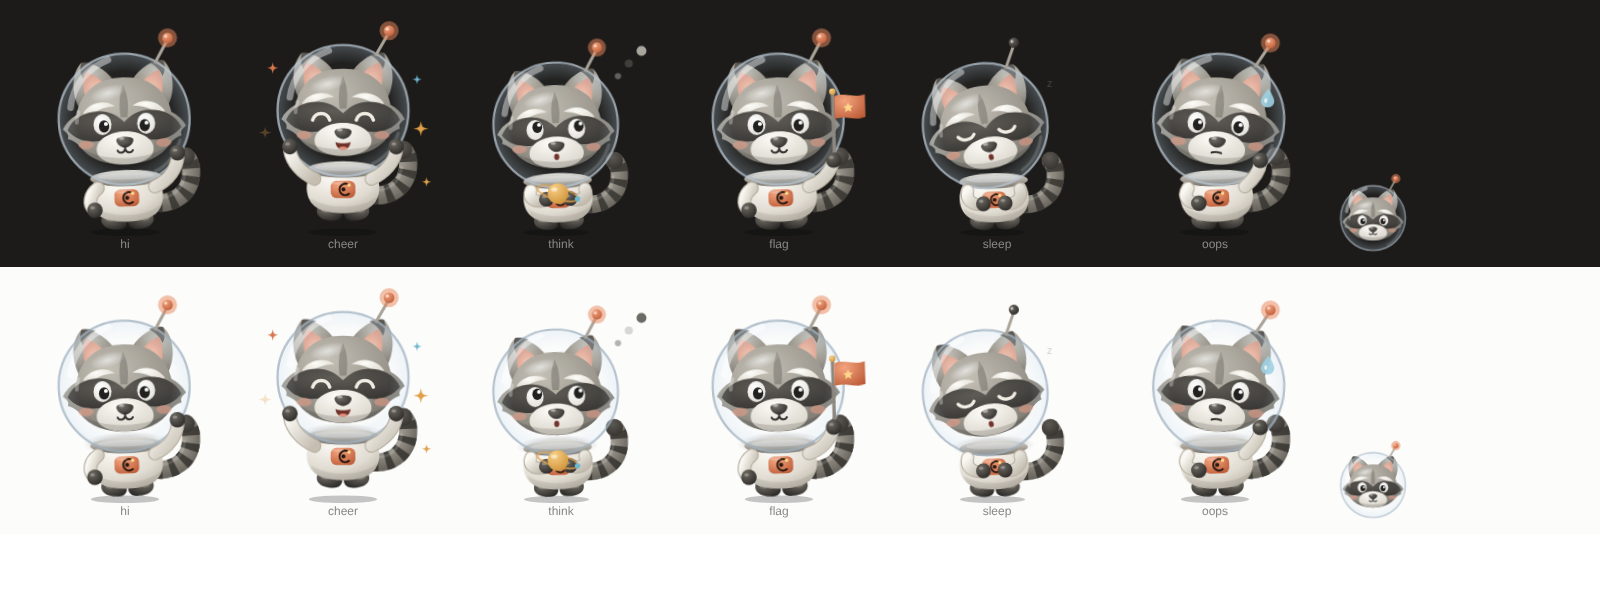
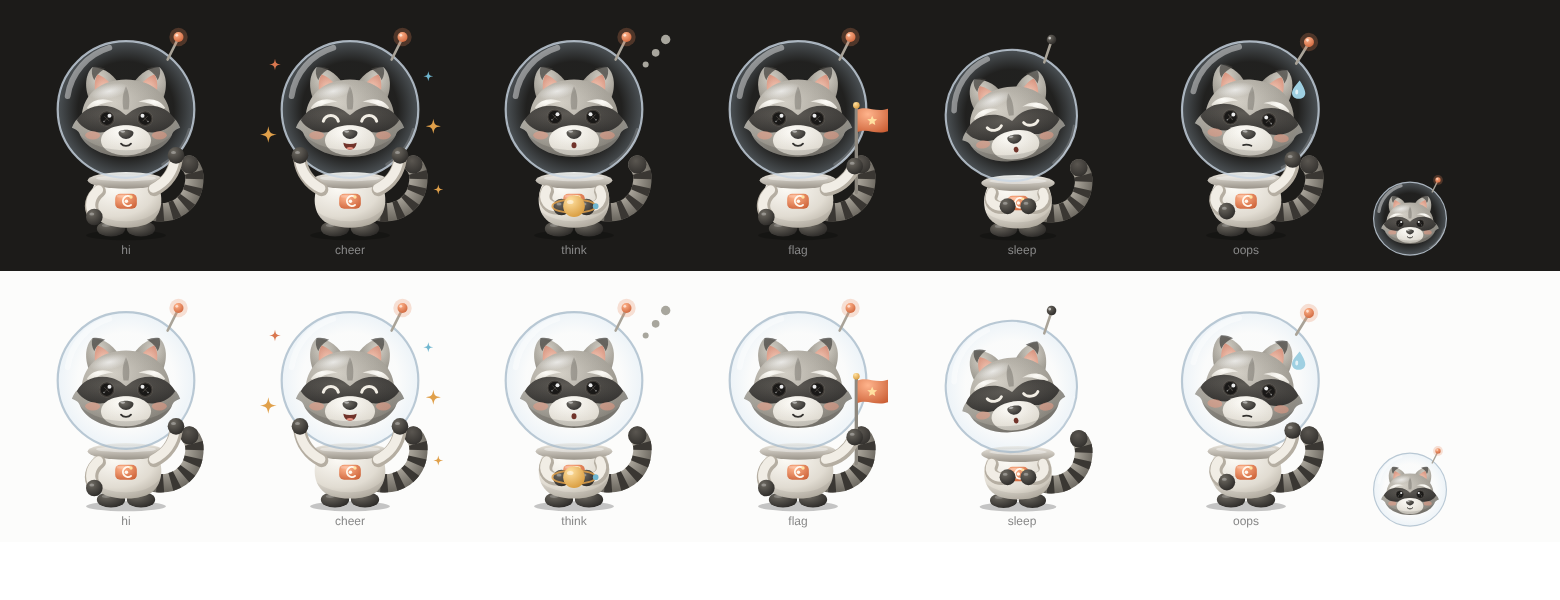
Енот: белый винил с глазами-пуговками во всех позах; UX-решения экранов v2 в CLAUDE.md
Claude-Session: https://claude.ai/code/session_01UrUbwLMz1RwJzU76MZ93kj

diff --git a/design/mascot/coon.py b/design/mascot/coon.py
@@ -278,3 +278,179 @@ if __name__ == '__main__':
     for f in sorted(src_dir.glob('*.dc.html')):
         build(f, out_dir / f.name)
         print('built', f.name)
+
+
+# ═════════════════ v3: белый винил с глазами-пуговками (выбран 19.10) ═════════════════
+# Координаты 240×260. Переопределяет CSS и pose_svg выше.
+CSS = """
+.sp-app{--rim:#C9D6E2}
+.sp-app[data-theme="light"]{--rim:#A9BCCB}
+.coon{overflow:visible;display:block}
+.coon .c-float{animation:c-float 5.5s ease-in-out infinite;transform-box:view-box;transform-origin:120px 150px}
+.coon .c-wave{animation:c-wave 1.8s ease-in-out infinite;transform-box:view-box;transform-origin:154px 196px}
+.coon .c-tail{animation:c-tail 3.2s ease-in-out infinite;transform-box:view-box;transform-origin:150px 222px}
+.coon .c-ear{animation:c-ear 6s ease-in-out infinite;transform-box:view-box;transform-origin:146px 84px}
+.coon .c-eye{animation:c-blink 4.8s infinite;transform-box:fill-box;transform-origin:center}
+.coon .c-beacon{animation:c-beacon 1.6s ease-in-out infinite}
+.coon .c-star{animation:c-twinkle 2.4s ease-in-out infinite;transform-box:fill-box;transform-origin:center}
+.coon .c-hop{animation:c-hop 1.1s cubic-bezier(.3,.6,.4,1) infinite;transform-box:view-box;transform-origin:120px 250px}
+.coon .c-z{animation:c-z 3s ease-in-out infinite;opacity:0}
+.coon .c-dot{animation:c-dot 1.4s ease-in-out infinite}
+.coon .c-orb{animation:c-orb 6s linear infinite;transform-box:view-box;transform-origin:120px 216px}
+.coon .c-flag{animation:c-flag 1.4s ease-in-out infinite;transform-box:view-box;transform-origin:190px 100px}
+@keyframes c-float{0%,100%{transform:translateY(0) rotate(-1.5deg)}50%{transform:translateY(-6px) rotate(1.5deg)}}
+@keyframes c-wave{0%,100%{transform:rotate(-8deg)}50%{transform:rotate(12deg)}}
+@keyframes c-tail{0%,100%{transform:rotate(0)}50%{transform:rotate(-8deg)}}
+@keyframes c-ear{0%,86%,100%{transform:rotate(0)}90%{transform:rotate(8deg)}94%{transform:rotate(-3deg)}}
+@keyframes c-blink{0%,93%,100%{transform:scaleY(1)}96%{transform:scaleY(.1)}}
+@keyframes c-beacon{0%,100%{opacity:.35}50%{opacity:1}}
+@keyframes c-twinkle{0%,100%{opacity:.2;transform:scale(.7)}50%{opacity:1;transform:scale(1)}}
+@keyframes c-hop{0%,100%{transform:translateY(0) scaleY(1)}12%{transform:translateY(0) scaleY(.95)}45%{transform:translateY(-12px) scaleY(1.02)}}
+@keyframes c-z{0%{opacity:0;transform:translate(0,0)}25%{opacity:1}100%{opacity:0;transform:translate(10px,-22px)}}
+@keyframes c-dot{0%,100%{opacity:.25}50%{opacity:1}}
+@keyframes c-orb{to{transform:rotate(360deg)}}
+@keyframes c-flag{0%,100%{transform:skewY(0)}50%{transform:skewY(-6deg)}}
+@media (prefers-reduced-motion:reduce){.coon *{animation:none!important}.coon .c-z,.coon .c-dot{opacity:1}}
+"""
+
+def _rg(id, stops, cx=.38, cy=.3, r=.85):
+    s = ''.join(f'<stop offset="{o}" stop-color="{c}"></stop>' for o, c in stops)
+    return f'<radialGradient id="{id}" cx="{cx}" cy="{cy}" r="{r}">{s}</radialGradient>'
+
+def _mir(inner):
+    return f'<g transform="translate(240 0) scale(-1 1)">{inner}</g>'
+
+DEFS3 = ('<defs>'
+    + _rg('cn-fur', [(0, '#D3CEC4'), (.55, '#A39E94'), (1, '#6E6A62')]) + _rg('cn-mask', [(0, '#5A5650'), (1, '#2A2826')], .42, .3, .9)
+    + _rg('cn-cream', [(0, '#FFFDF8'), (1, '#D8D2C6')], .42, .22, .9) + _rg('cn-dark', [(0, '#6E6A62'), (1, '#2A2826')], .34, .28, .8)
+    + _rg('cn-clay', [(0, '#FFB48C'), (1, '#C85A30')], .34, .25, .95) + _rg('cn-gold', [(0, '#FFE0A0'), (1, '#D18F2C')], .34, .25, .95)
+    + _rg('cn-ear', [(0, '#F7CDBA'), (1, '#D8927C')], .5, .65, .7)
+    + _rg('cn-suit', [(0, '#FCFAF5'), (.6, '#E1DCD2'), (1, '#AFA89B')], .34, .2, .95)
+    + '<radialGradient id="cn-glass" cx=".5" cy=".5" r=".5"><stop offset=".7" stop-color="#C6DDF0" stop-opacity=".03"></stop><stop offset="1" stop-color="#C6DDF0" stop-opacity=".28"></stop></radialGradient>'
+    + '<radialGradient id="cn-spec"><stop offset="0" stop-color="#fff" stop-opacity=".65"></stop><stop offset="1" stop-color="#fff" stop-opacity="0"></stop></radialGradient>'
+    + '<linearGradient id="cn-metal" x1="0" y1="0" x2="0" y2="1"><stop offset="0" stop-color="#F2EEE6"></stop><stop offset="1" stop-color="#9A948A"></stop></linearGradient>'
+    + '</defs>')
+
+def _button(dy=0):
+    y = 111 + dy
+    return (f'<g class="c-eye"><circle cx="97" cy="{y}" r="9.5" fill="#6E6A62" opacity=".55"></circle><circle cx="97" cy="{y}" r="8.2" fill="#141210"></circle>'
+            f'<circle cx="97" cy="{y}" r="8.2" fill="none" stroke="#3A3530" stroke-width="1.4"></circle>'
+            f'<path d="M94 {y-3}l6 6M100 {y-3}l-6 6" stroke="#4A4540" stroke-width="1.2" opacity=".85"></path>'
+            f'<circle cx="100.2" cy="{y-3.4}" r="2.4" fill="#fff" opacity=".92"></circle><circle cx="93.6" cy="{y+3.4}" r="1" fill="#fff" opacity=".5"></circle></g>')
+
+def _eyes3(kind):
+    if kind == 'closed':
+        e = '<path d="M88 111C92 117 102 117 106 111" fill="none" stroke="#F3EEE4" stroke-width="3.6" stroke-linecap="round"></path>'
+    elif kind == 'happy':
+        e = '<path d="M88 114C91 105 103 105 106 114" fill="none" stroke="#F3EEE4" stroke-width="3.6" stroke-linecap="round"></path>'
+    else:
+        e = _button(-2 if kind == 'up' else 0)
+    return e + _mir(e)
+
+def _mouth3(kind):
+    if kind == 'open':
+        return ('<path d="M112 140C113 151 127 151 128 140C123 142 117 142 112 140Z" fill="#6E2E24"></path>'
+                '<path d="M115.5 146.5C118 144.6 122 144.6 124.5 146.5C122.5 148.6 117.5 148.6 115.5 146.5Z" fill="#E88E7C"></path>')
+    if kind == 'o':
+        return '<ellipse cx="120" cy="143" rx="3" ry="3.6" fill="#6E2E24"></ellipse>'
+    if kind == 'flat':
+        return '<path d="M115 143C118 142 122 142 125 143" fill="none" stroke="#2E2C29" stroke-width="2.2" stroke-linecap="round"></path>'
+    return '<path d="M114 141C117 144.5 123 144.5 126 141" fill="none" stroke="#2E2C29" stroke-width="2.2" stroke-linecap="round"></path>'
+
+def _head3(eye='open', mth='smile'):
+    ear = ('<path d="M80 96C69 78 70 58 80 49C95 50 108 60 113 73Z" fill="url(#cn-fur)"></path>'
+           '<path d="M80 49C85 48 90 49 95 51C89 54 84 59 82 65C79 60 78 54 80 49Z" fill="#3A3733" opacity=".7"></path>'
+           '<path d="M85 87C81 75 82 63 86 58C94 61 101 67 105 74Z" fill="url(#cn-ear)"></path>')
+    brow = '<path d="M73 98C80 87 94 85 105 91C95 91 85 94 77 102Z" fill="url(#cn-cream)"></path>'
+    blush = '<ellipse cx="80" cy="131" rx="9" ry="5" fill="#F29A80" opacity=".5"></ellipse>'
+    return f"""<g>{ear}</g><g class="c-ear">{_mir(ear)}</g>
+<path d="M120 64C150 64 171 82 173 107C179 111 183 116 185 122C179 124 176 127 175 131C167 147 146 157 120 157C94 157 73 147 65 131C64 127 61 124 55 122C57 116 61 111 67 107C69 82 90 64 120 64Z" fill="url(#cn-fur)"></path>
+<path d="M120 72C124 80 125 90 123 100H117C115 90 116 80 120 72Z" fill="#3A3733" opacity=".3"></path>
+{brow}{_mir(brow)}
+<path d="M61 113C69 97 87 93 103 97C111 99 116 104 120 107C124 104 129 99 137 97C153 93 171 97 179 113C171 125 157 129 145 127C135 125 127 119 120 119C113 119 105 125 95 127C83 129 69 125 61 113Z" fill="url(#cn-mask)"></path>
+{_eyes3(eye)}
+<path d="M120 119C138 119 150 127 150 137C150 148 137 155 120 155C103 155 90 148 90 137C90 127 102 119 120 119Z" fill="url(#cn-cream)"></path>
+<path d="M65 131C73 147 94 157 120 157C146 157 167 147 175 131C162 143 142 149 120 149C98 149 78 143 65 131Z" fill="#000" opacity=".12"></path>
+<ellipse cx="100" cy="78" rx="24" ry="9" transform="rotate(-12 100 78)" fill="url(#cn-spec)"></ellipse>
+{blush}{_mir(blush)}
+<path d="M111 128C111 123 129 123 129 128C129 132 124 135.5 120 135.5C116 135.5 111 132 111 128Z" fill="url(#cn-dark)"></path>
+<ellipse cx="116" cy="126.5" rx="3" ry="1.3" fill="#fff" opacity=".5"></ellipse>
+{_mouth3(mth)}"""
+
+def _dome3(beacon=True):
+    tip = ('<circle class="c-beacon" cx="183" cy="13" r="11" fill="#E8875C" opacity=".25"></circle><circle cx="183" cy="13" r="6" fill="url(#cn-clay)"></circle>'
+           if beacon else '<circle cx="183" cy="13" r="6" fill="url(#cn-dark)"></circle>')
+    return ('<circle cx="120" cy="100" r="82" fill="url(#cn-glass)"></circle>'
+            '<circle cx="120" cy="100" r="82" fill="none" stroke="var(--rim)" stroke-width="2.6" opacity=".8"></circle>'
+            '<path d="M50 84C54 56 74 34 100 26" fill="none" stroke="#fff" stroke-width="7" stroke-linecap="round" opacity=".42"></path>'
+            '<path d="M196 124C190 144 178 158 164 166" fill="none" stroke="#fff" stroke-width="3.5" stroke-linecap="round" opacity=".16"></path>'
+            '<line x1="170" y1="40" x2="182" y2="16" stroke="#A9A398" stroke-width="3.2" stroke-linecap="round"></line>'
+            + tip + '<circle cx="181" cy="11" r="1.7" fill="#fff" opacity=".6"></circle>')
+
+_TAIL3 = 'M150 222C178 228 200 212 202 186C203 176 200 170 196 166'
+def _body3():
+    return f"""<g class="c-tail"><path d="{_TAIL3}" fill="none" stroke="url(#cn-fur)" stroke-width="22" stroke-linecap="round"></path>
+<path d="{_TAIL3}" fill="none" stroke="#3A3733" stroke-width="22" stroke-dasharray="8 9" stroke-dashoffset="-7"></path>
+<circle cx="196" cy="166" r="11" fill="url(#cn-mask)"></circle></g>
+<ellipse cx="102" cy="243" rx="17" ry="9.5" fill="url(#cn-dark)"></ellipse><ellipse cx="138" cy="243" rx="17" ry="9.5" fill="url(#cn-dark)"></ellipse>
+<ellipse cx="96" cy="239" rx="5" ry="2" fill="#fff" opacity=".2"></ellipse><ellipse cx="132" cy="239" rx="5" ry="2" fill="#fff" opacity=".2"></ellipse>
+<path d="M82 190C74 206 76 230 96 238C110 243 130 243 144 238C164 230 166 206 158 190C146 181 94 181 82 190Z" fill="url(#cn-suit)"></path>
+<path d="M96 238C110 243 130 243 144 238C154 234 160 226 162 216C152 230 136 234 120 234C104 234 90 230 80 222C84 230 89 235 96 238Z" fill="#000" opacity=".06"></path>
+<rect x="107" y="201" width="26" height="18" rx="6" fill="url(#cn-clay)"></rect>
+<path d="M126 205A6 6 0 1 0 126 214.5" fill="none" stroke="#FFF8EE" stroke-width="2.3" stroke-linecap="round"></path><circle cx="120.5" cy="210" r="2.1" fill="#FFF8EE"></circle><circle cx="126" cy="205" r="2" fill="#FFE0A0"></circle>
+<rect x="109" y="202.5" width="12" height="3" rx="1.5" fill="#fff" opacity=".25"></rect>
+<ellipse cx="120" cy="185" rx="46" ry="10" fill="url(#cn-metal)"></ellipse><ellipse cx="120" cy="182.5" rx="36" ry="3.6" fill="#fff" opacity=".4"></ellipse>"""
+
+def _arm3(d, paw, cls=''):
+    c = f' class="{cls}"' if cls else ''
+    x, y = paw
+    return (f'<g{c}><path d="{d}" fill="none" stroke="#B5AEA2" stroke-width="16" stroke-linecap="round"></path>'
+            f'<path d="{d}" fill="none" stroke="#F1EDE5" stroke-width="11" stroke-linecap="round" transform="translate(-1 -1.5)"></path>'
+            f'<circle cx="{x}" cy="{y}" r="10" fill="url(#cn-dark)"></circle><ellipse cx="{x-3}" cy="{y-3.5}" rx="3" ry="1.8" fill="#fff" opacity=".3"></ellipse></g>')
+
+_SH3 = '<ellipse cx="120" cy="251" rx="48" ry="6" fill="#000" opacity=".22"></ellipse>'
+_REST_L = ('M88 198C78 206 76 218 82 226', (82, 229))
+
+def _sparkle3(x, y, s, delay, color='var(--gold)'):
+    return sparkle(x, y, s, delay, color)
+
+def pose_svg(pose):
+    if pose == 'face':
+        return f'{DEFS3}{_head3()}{_dome3()}', '30 0 180 186'
+    if pose == 'hi':
+        inner = f"{_body3()}{_head3()}{_dome3()}{_arm3(*_REST_L)}{_arm3('M154 196C170 188 178 174 180 160', (180, 155), 'c-wave')}"
+        return f'{DEFS3}{_SH3}<g class="c-float">{inner}</g>', '0 0 240 260'
+    if pose == 'cheer':
+        inner = (f"{_body3()}{_head3('happy', 'open')}{_dome3()}"
+                 f"{_arm3('M86 196C70 188 62 174 60 160', (60, 155))}{_arm3('M154 196C170 188 178 174 180 160', (180, 155))}")
+        stars = _sparkle3(22, 130, 10, 0) + _sparkle3(220, 120, 9, .6) + _sparkle3(30, 46, 7, 1.1, 'var(--clay)') + _sparkle3(214, 60, 6, .3, 'var(--signal-done)') + _sparkle3(226, 196, 6, .9)
+        return f'{DEFS3}{_SH3}{stars}<g class="c-hop">{inner}</g>', '0 0 240 260'
+    if pose == 'think':
+        orb = ('<g class="c-orb"><ellipse cx="120" cy="216" rx="26" ry="8" fill="none" stroke="var(--gold)" stroke-width="2.2" opacity=".85"></ellipse><circle cx="146" cy="216" r="3.4" fill="var(--signal-done)"></circle></g>'
+               '<circle cx="120" cy="216" r="13" fill="url(#cn-gold)"></circle><ellipse cx="115.5" cy="211" rx="4" ry="2.4" fill="#fff" opacity=".5"></ellipse>')
+        inner = (f"{_body3()}{_head3('up', 'o')}{_dome3()}"
+                 f"{_arm3('M88 198C82 210 90 220 104 218', (105, 217))}{_arm3('M152 198C158 210 150 220 136 218', (135, 217))}{orb}")
+        dots = ''.join(f'<circle class="c-dot" style="animation-delay:{d}s" cx="{x}" cy="{y}" r="{r}" fill="var(--ink-soft)"></circle>'
+                       for x, y, r, d in ((206, 46, 3.6, 0), (218, 32, 4.6, .25), (230, 16, 5.6, .5)))
+        return f'{DEFS3}{_SH3}<g class="c-float">{inner}</g>{dots}', '0 0 240 260'
+    if pose == 'flag':
+        flag = ('<line x1="190" y1="200" x2="190" y2="96" stroke="#8D887F" stroke-width="4" stroke-linecap="round"></line>'
+                '<circle cx="190" cy="95" r="4" fill="url(#cn-gold)"></circle>'
+                '<g class="c-flag"><path d="M191.5 100C203 95 214 104 228 99V126C214 131 203 122 191.5 127Z" fill="url(#cn-clay)"></path>'
+                '<path d="M209 107.5l1.8 3.8 4.1.4-3.1 2.8.9 4.1-3.7-2.1-3.7 2.1.9-4.1-3.1-2.8 4.1-.4z" fill="#FFE0A0"></path></g>')
+        inner = (f"{_body3()}{_head3()}{_dome3()}{_arm3(*_REST_L)}{flag}"
+                 f"{_arm3('M154 196C168 194 180 184 186 172', (188, 168))}")
+        return f'{DEFS3}{_SH3}<g class="c-float">{inner}</g>', '0 0 240 260'
+    if pose == 'sleep':
+        inner = (f"{_body3()}<g transform=\"rotate(-8 120 160)\">{_head3('closed', 'o')}{_dome3(beacon=False)}</g>"
+                 f"{_arm3('M88 198C82 210 92 218 106 215', (107, 214))}{_arm3('M152 198C158 210 148 218 134 215', (133, 214))}")
+        z = ''.join(f'<text class="c-z" x="{x}" y="{y}" style="animation-delay:{d}s;font:700 {s}px/1 var(--font-sans)" fill="var(--ink-soft)">z</text>'
+                    for x, y, s, d in ((198, 64, 15, 0), (210, 44, 19, 1), (222, 22, 23, 2)))
+        return f'{DEFS3}{_SH3}<g class="c-float">{inner}</g>{z}', '0 0 250 260'
+    if pose == 'oops':
+        drop = ('<path d="M176 60C176 60 168 70 168 75C168 79.4 171.6 82 176 82C180.4 82 184 79.4 184 75C184 70 176 60 176 60Z" fill="#9FD0E2"></path>'
+                '<ellipse cx="173.6" cy="74" rx="1.8" ry="3" fill="#fff" opacity=".7"></ellipse>')
+        inner = (f"{_body3()}<g transform=\"rotate(5 120 160)\">{_head3('open', 'flat')}{_dome3()}{drop}</g>"
+                 f"{_arm3('M88 198C80 208 84 220 96 222', (97, 222))}{_arm3('M154 196C168 188 176 176 176 164', (176, 160))}")
+        return f'{DEFS3}{_SH3}<g class="c-float">{inner}</g>', '0 0 240 260'
+    raise ValueError(pose)

diff --git a/CLAUDE.md b/CLAUDE.md
@@ -19,8 +19,13 @@
 - Стиль: дизайн-система «Спутник» (claude.ai/artifact/5UB1CRJ24ttREtMhP6B2o4). Тёмная тема основная, акцент clay `#D9774F`, золото `#E0A04A` для особого, «выполнено» сине-бирюзовое `#6FB6CF`. Токены и классы `sp-*` — в `tracker/src/styles/`. Знак — буква «С» из орбиты (компонент `Brand.svelte`).
 - Макеты экранов: claude.ai/artifact/ABerF89JnVCYaWLB48sGDr (Доска, Сегодня, Окно задачи, Привычки, Календарь — неделя и месяц).
 - Календарь: неделя и месяц устроены одинаково — сверху одна панель (период, ‹ ›, «Сегодня», фильтры-переключатели «События / Задачи / Привычки / Дни рождения», переключатель «Неделя | Месяц»), справа одна панель выбранного дня. Без левой колонки. События Google — нейтральные плашки, задачи со временем — тонированы по типу и с кружком-отметкой, задачи на день и дни рождения — строка «весь день». Привычки: в неделе под шапками дней ряд точек (золотая — сделано, обводка clay — сегодня, пунктир — не по расписанию) со счётчиком «1/4»; клик по ячейке дня открывает в панели дня список привычек этого дня (на сегодня — с отметкой и серией), клик по подписи «привычки» раскрывает ряд в таблицу «привычка × день». В месяце — полоска внизу клетки. Под сеткой недели — обзор: «Загрузка недели» (часы по дням), «Сроки и даты недели», карточка енота-космонавта, который предлагает самое свободное окно и одной кнопкой ставит туда задачу; на сетке это окно обведено золотым пунктиром. Сетка недели 9:00–21:00. Дни рождения — календарь «Дни рождения» (контакты Google), праздники — «Праздники России».
-- Персонаж — енот-космонавт в стиле виниловой игрушки (референсы пользователя: дизайнерские фигурки — крупная голова, короткие лапки, мягкий матовый объём без обводок). Генератор и готовые SVG — `design/mascot/` (`coon.py`, `coon-<поза>.svg`, лист `poses.png`). Позы: hi (Сегодня, первый запуск), cheer (всё сделано, веха серии 7/21/50/100, пустые «Входящие»), flag (Привычки, запланированное окно), think (свободное окно, совет на доске), sleep (пустая колонка, свободный вечер, серия на паузе), oops (нет связи с Google), face (значок для уведомлений и бота). Анимации мягкие, при «уменьшении движения» замирают.
-- Макеты v2 (ряды ниже на том же холсте): Енот-космонавт, Первый запуск, Сегодня, Доска, Календарь неделя/месяц, Привычки — с енотом и общей навигацией «Сегодня · Календарь · Доска · Привычки».
+- Персонаж — енот-космонавт, **выбран 19.10: «белый винил»** — виниловая игрушка в белом скафандре с оранжевой нашивкой «С», тёмные перчатки и сапожки, **глаза-пуговки** (от плюшевого варианта), голова свободно помещается в шлем. Генератор — `design/mascot/coon.py` (актуальна секция «v3» в конце файла, координаты 240×260), готовые SVG `coon-<поза>.svg`, лист `poses.png`. Позы: hi (Сегодня, первый запуск), cheer (всё сделано, веха серии 7/21/50/100, пустые «Входящие»), flag (Привычки, запланированное окно), think (свободное окно, совет на доске), sleep (пустая колонка, свободный день, серия на паузе), oops (нет связи с Google), face (значок для уведомлений и бота). Анимации мягкие, при «уменьшении движения» замирают. Отвергнутые варианты стиля лежат на холсте (доски «Енот · 8 вариантов», «гибриды», «финалисты»).
+- Макеты v2 (ряды ниже на том же холсте) с общей навигацией «Сегодня · Календарь · Доска · Привычки». UX-решения v2:
+  - Сегодня: строка быстрого добавления сверху (время «17:00» и «#тип» распознаются), «Дальше: … через N мин», после отметки задачи — плашка «Готово · Отменить», во «Входящих от Claude» — «Принять все».
+  - Доска: «+ Добавить задачу» открывает форму прямо в колонке (Enter — добавить, Esc — отмена), стрелка на карточке переводит на следующий этап, лимит «В работе» 3 с предупреждением, «Готово» свёрнуто до 2 карточек.
+  - Привычки: ряд «Сегодня» сверху — отметить все привычки в одно касание; «Взять выходной» — 1 в неделю, серия не сгорает (в сетке пунктир бирюзовым); праздник на вехах.
+  - Календарь (неделя и месяц): в панели дня «＋ Добавить на этот день» — название, задача/событие, время; в неделе форму открывает клик по пустому часу (подсветка «+ 14:00», черновик пунктиром в сетке). Свободный день — дремлющий енот.
+  - Первый запуск: перед входом объяснено, какие доступы попросит Google и что своего сервера нет; после — три подсказки (Ctrl+N, «запиши в Спутник» из чата, сводка 7:45).
 - План развития: claude.ai/code/artifact/5d16fabc-0e58-4a14-85ee-8dfdf97518fa.
 
 ## Устройство трекера
